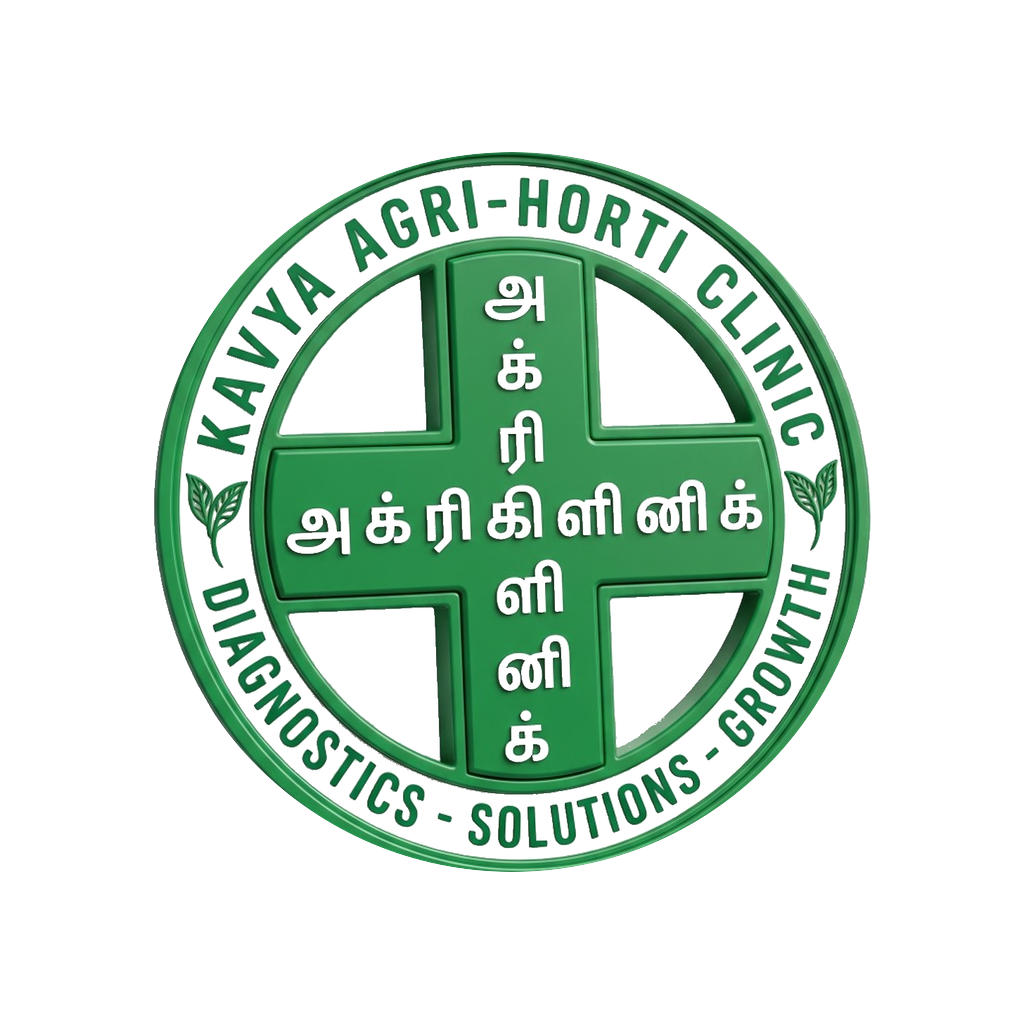
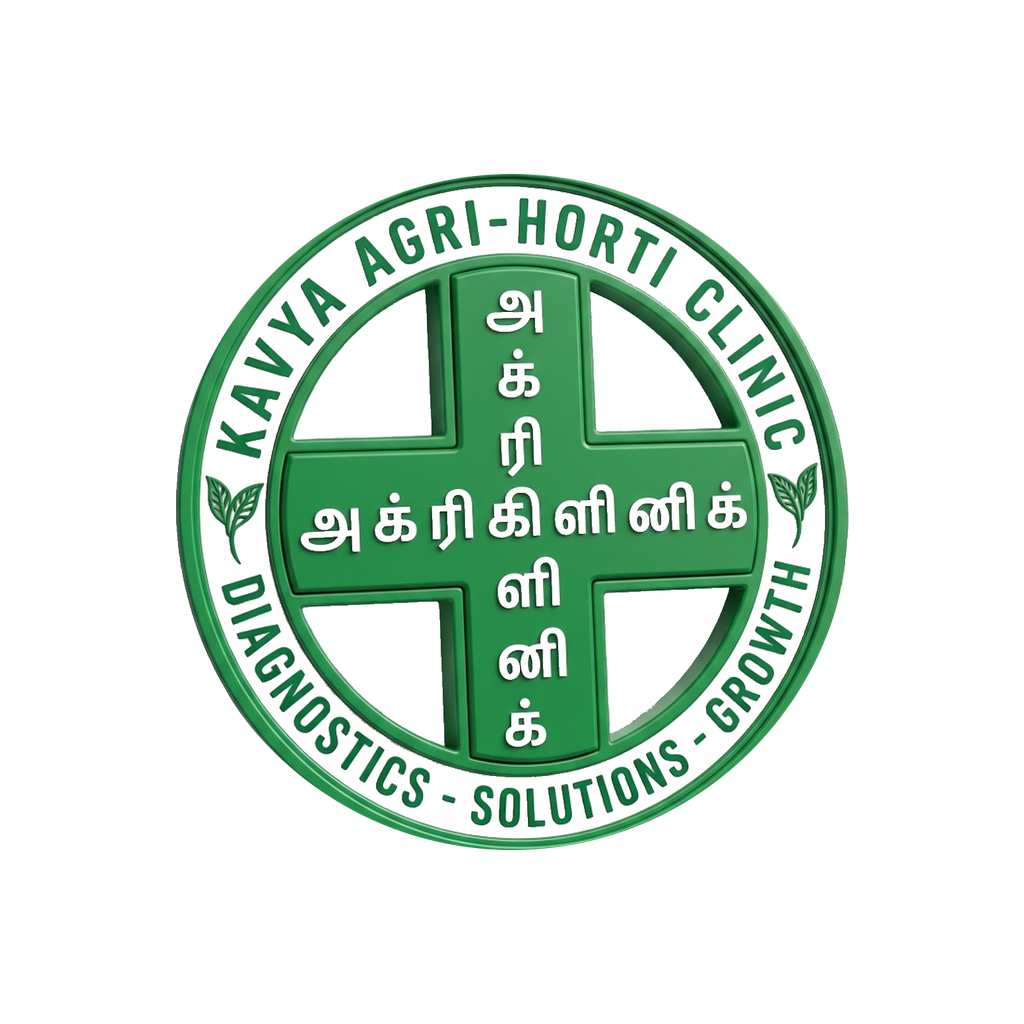
fix: inset launcher badge inside white orbit to prevent edge clipping
Rebuild logo_icon with a white circular orbit and padded green badge so
Android round/squircle masks no longer clip the ring text, then regenerate
all launcher mipmaps and audits.

Changed region(s): [[0.125, 0.125, 0.875, 0.875]]

diff --git a/assets/brand/kac/README.md b/assets/brand/kac/README.md
@@ -2,22 +2,21 @@
 
 **Source of truth:** `../logo_icon.png`.
 
-The production launcher icon is the approved Kavya Agri-Horti Clinic circular logo centered on white.
+The production launcher icon is the approved Kavya Agri-Horti Clinic circular badge centered **inside a white circular orbit** (with transparent corners outside that orbit).
 
 ## Rules
 
 - Do not redesign, AI-recreate, recolor, sharpen, or retouch the company logo.
-- `npm run icons:generate` circular-masks and resizes `../logo_icon.png`.
-- The legacy and adaptive logo diameters are 720px (70.3% of the 1024px master).
+- `logo_icon.png` composition: white orbit + green badge inset (~66%) so OEM round/squircle masks never clip the green ring.
+- `npm run icons:generate` ships the source as-is onto legacy (white square) and adaptive (transparent corners) layers.
 - The adaptive background is opaque white (`#FFFFFF`, `@color/iconBackground`).
-- The adaptive foreground is transparent outside the circular company logo.
 - Keep the launcher label `Kavya Agri` unchanged.
 
 ## Files
 
 | File | Role |
 |------|------|
-| `../logo_icon.png` | Launcher artwork source |
+| `../logo_icon.png` | Launcher artwork source (white orbit + inset badge) |
 | `app_icon_1024.png` / `app_icon_1024_solid.png` | Circular 1024x1024 launcher masters |
 | `adaptive_icon_background*.png` | Opaque white adaptive background layer |
 | `mask_preview_*.png` | QA only (not shipped) |
